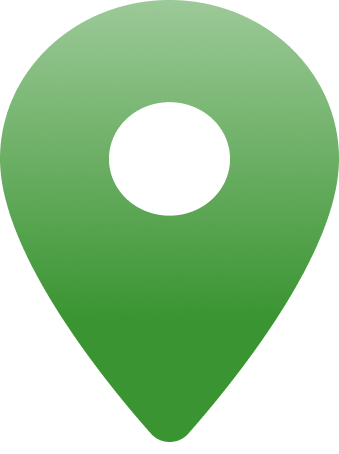
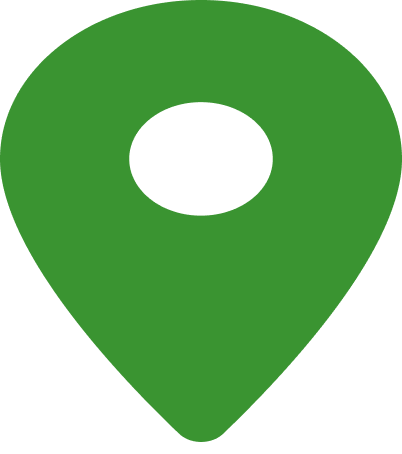
Change buttons and marker colors

diff --git a/src/components/Button/Button.scss b/src/components/Button/Button.scss
@@ -1,11 +1,20 @@
 .button {
-  background: var(--general-gradient);
   border: none;
-  font-size: 2.5rem;
+  font-size: 2.2rem;
   width: 100%;
   padding: 1rem 0;
   font-family: inherit;
   color: var(--text-color);
   box-shadow: var(--general-shadow);
   cursor: pointer;
+
+  &--green {
+    @extend .button;
+    background-color: rgb(58, 148, 49);
+  }
+
+  &--red {
+    @extend .button;
+    background-color: rgb(209, 4, 4);
+  }
 }

diff --git a/src/layouts/Sidebar/Sidebar.jsx b/src/layouts/Sidebar/Sidebar.jsx
@@ -55,7 +55,10 @@ const Sidebar = () => {
           placeholder="Descripción"
           textarea
         />
-        <Button textContent="Agregar" />
+        <div className="sidebar__add-place__buttons">
+          <Button textContent="Agregar" color="green" />
+          <Button textContent="Cancelar" color="red" />
+        </div>
       </form>
     </div>
   );

diff --git a/src/components/Button/Button.jsx b/src/components/Button/Button.jsx
@@ -1,7 +1,7 @@
 import './Button.scss';
 
-const Button = ({ textContent }) => {
-  return <button className="button">{textContent}</button>;
+const Button = ({ textContent, color }) => {
+  return <button className={`button--${color}`}>{textContent}</button>;
 };
 
 export default Button;

diff --git a/src/layouts/Sidebar/Sidebar.scss b/src/layouts/Sidebar/Sidebar.scss
@@ -41,6 +41,11 @@
         margin-bottom: 3rem;
       }
     }
+
+    &__buttons {
+      display: flex;
+      gap: 3rem;
+    }
   }
 }
 
